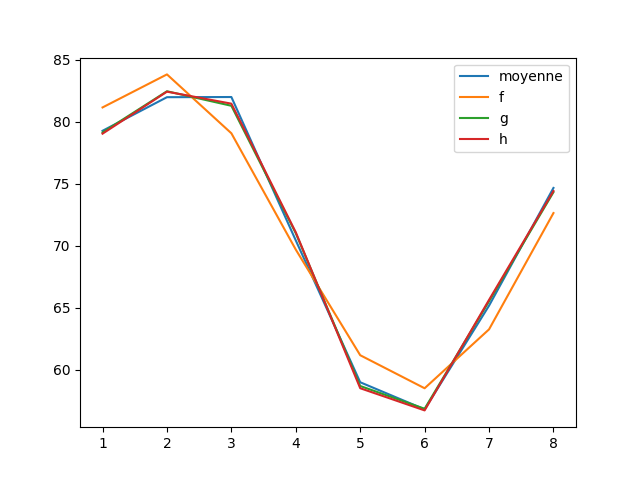
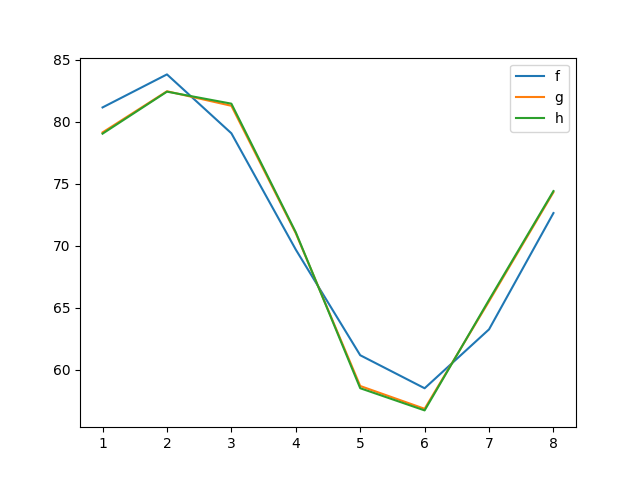
Dessin courbe annee resultat descente cosinus

diff --git a/analyse_station_unique/descente_cosinus/dessinCourbeAnneeH.py b/analyse_station_unique/descente_cosinus/dessinCourbeAnneeH.py
@@ -7,7 +7,7 @@ from matplotlib import pyplot as plt
 import json
 from matplotlib import pyplot as plt
 
-with open('../json/temperature.json') as jsonfile :
+with open('../json/humidite.json') as jsonfile :
 	temperature = json.load(jsonfile)
 
 
@@ -29,7 +29,7 @@ for date in dates :
 				index = temperature[0][annee].index(date + (1/8) * heure)
 				i += 1
 				somme_temperature += temperature[1][annee][index]
-	Moyenne_temperature.append(somme_temperature/i - 273.15)
+	Moyenne_temperature.append(somme_temperature/i)
 
 
 
@@ -38,11 +38,11 @@ f = []
 g = []
 h = []
 for j in jour :
-	pf = -8.37900126*np.cos(2*np.pi*j/365 + 5.95629115) + 285.13810537 - 273.15
+	pf =6.78906587*np.cos(2*np.pi*j/365 + 0.31944989) + 71.15758689
 	f .append (pf)
-	pg = 2.85138181e+02 -8.39742026e+00*np.cos(2*np.pi*j/365 + 5.95627061e+00) -3.56389400e-02 *np.cos(4*np.pi*j/365 + 6.61334074e-03) - 273.15
+	pg = 71.15503638 + 6.87475093*np.cos(2*np.pi*j/365 + 0.31901173) + 2.40357027*np.cos(4*np.pi*j/365 + 0.89433251)
 	g .append (pg) 
-	ph = 2.85138253e+02 -8.39738900e+00*np.cos(2*np.pi*j/365 + 5.95626734e+00 ) -3.55282083e-02 *np.cos(4*np.pi*j/365 + 6.59654426e-03) -7.80736324e-02*np.cos(4*np.pi*j/365 + 6.27876991e+00) - 273.15
+	ph = 71.1553131 +6.90021219*np.cos(2*np.pi*j/365 + 0.3193087 ) + 2.50198275*np.cos(4*np.pi*j/365 + 1.00739916) + 1.38720613*np.cos(4*np.pi*j/365 + 5.39421813)
 	h.append (ph)
 
 plt.plot(dates, Moyenne_temperature, label = "moyenne")
@@ -50,5 +50,5 @@ plt.plot (jour, f, label = "f")
 plt.plot (jour, g, label = "g")
 plt.plot (jour, h, label = "h")
 plt.legend()
-plt.savefig("CourbeAnneeT.png")
+plt.savefig("CourbeAnneeH.png")
 
